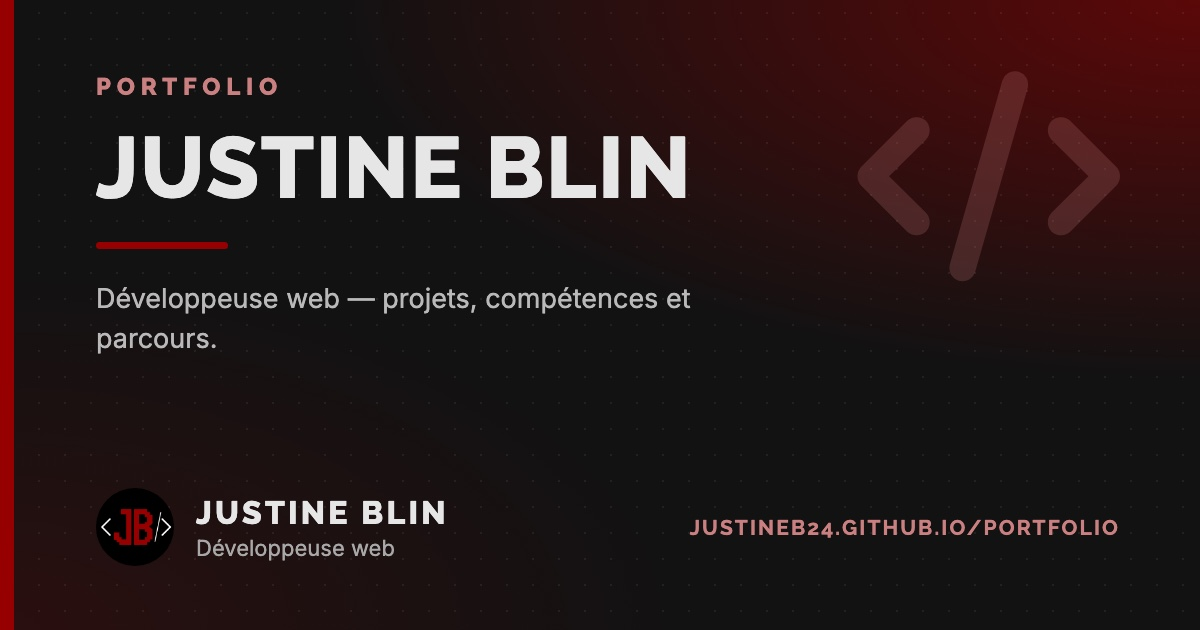
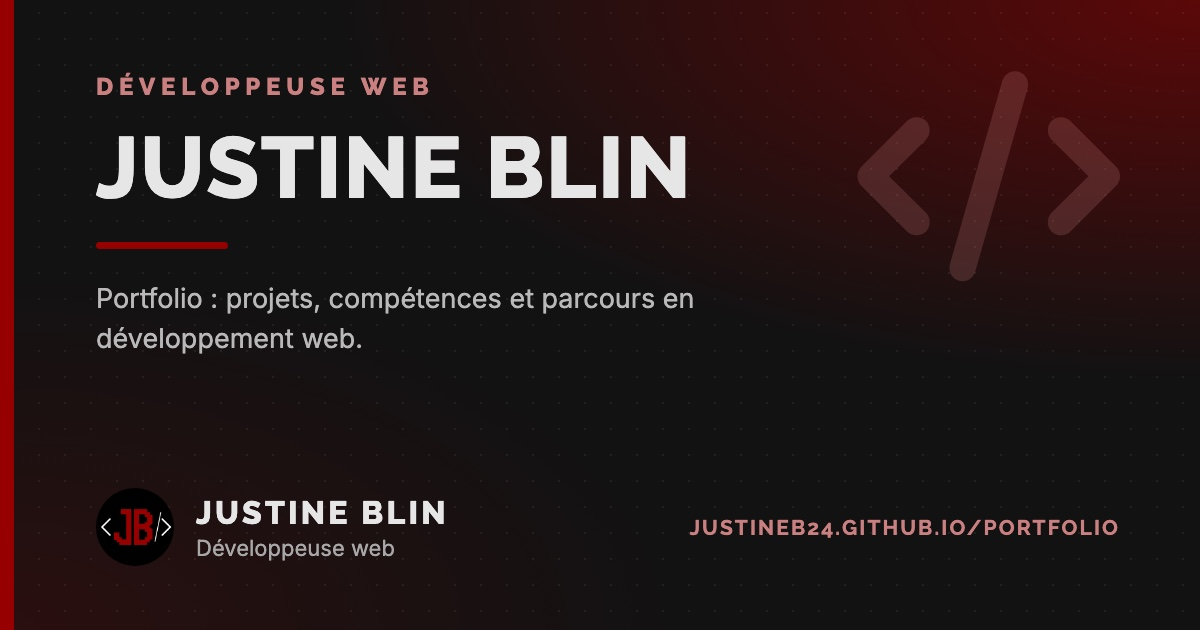
Cartes de partage régénérées
Le générateur accepte ?carte= pour choisir une carte.

Changed region(s): [[0.0925, 0.4524, 0.5858, 0.573], [0.0617, 0.1206, 0.37, 0.1508]]

diff --git a/assets/og/generateur.html b/assets/og/generateur.html
@@ -18,6 +18,40 @@
 <!--    |     --out assets/og/og-nom.jpg                           |    -->
 <!--    ==========================================================    -->
 
+<!--
+    ==========================================================================
+    OÙ SONT LES TEXTES DES CARTES
+    ==========================================================================
+    Dans l'objet `CARTES` en bas de ce fichier : c'est la SEULE source de
+    vérité. Volontairement pas recopiés ici, un commentaire finirait par
+    diverger (c'est déjà arrivé aux images elles-mêmes).
+
+    Ouvrir generateur.html sans paramètre affiche la liste des cartes.
+
+    ==========================================================================
+    RÉGÉNÉRER UNE CARTE
+    ==========================================================================
+      cd <racine du dépôt> && python3 -m http.server 8000 &
+      NOM=formation      # une des clés de l'objet CARTES
+      chrome --headless --disable-gpu --hide-scrollbars \
+             --virtual-time-budget=7000 --window-size=1200,630 \
+             --screenshot=/tmp/carte.png \
+             "http://localhost:8000/assets/og/generateur.html?carte=$NOM"
+      sips -s format jpeg -s formatOptions 88 /tmp/carte.png \
+           --out "assets/og/og-$NOM.jpg"
+
+    Qualité 88 : les dégradés du fond sont coûteux, en dessous ils marbrent.
+
+    Une carte est une image, elle ne suit pas les modifications des pages.
+    Quand un eyebrow ou un titre de page change : corriger `CARTES`, PUIS
+    régénérer l'image.
+
+    Les paramètres eyebrow / titre / accroche / icone restent acceptés, seuls
+    ou en surcharge d'une carte nommée, pour essayer une variante sans
+    toucher au fichier.
+    ==========================================================================
+-->
+
 <!doctype html>
 <html lang="fr">
 <head>
@@ -212,20 +246,128 @@
 </div>
 
 <script>
-    // Les textes viennent de l'URL : ?eyebrow=…&titre=…&accroche=…&icone=fa-rss
-    const p = new URLSearchParams(location.search);
-    const mettre = (id, valeur) => {
-        if (valeur !== null) document.getElementById(id).textContent = valeur;
+    // ======================================================================
+    // SOURCE UNIQUE DE VÉRITÉ des 10 cartes.
+    //
+    // La clé est le suffixe du fichier : "formation" -> og-formation.jpg.
+    // Règle de contenu : `eyebrow` et `titre` reprennent l'eyebrow et le h1
+    // de la page, pour que la carte et la page racontent la même chose.
+    //
+    // À GARDER À JOUR : une carte est une image, elle ne suit pas les
+    // modifications des pages. Quand un eyebrow ou un titre de page change,
+    // corriger ici PUIS régénérer l'image (voir l'en-tête du fichier).
+    // ======================================================================
+    const CARTES = {
+        "accueil": {
+            eyebrow: "Développeuse web",
+            titre: "Justine Blin",
+            accroche: "Portfolio : projets, compétences et parcours en développement web.",
+            icone: "fas fa-code"
+        },
+        "apropos": {
+            eyebrow: "Parcours et expériences",
+            titre: "Profil",
+            accroche: "Formations, expériences professionnelles et CV.",
+            icone: "fas fa-user"
+        },
+        "competences": {
+            eyebrow: "Langages, outils et certifications",
+            titre: "Compétences",
+            accroche: "Ce que j'utilise, et où le voir en projet.",
+            icone: "fas fa-laptop-code"
+        },
+        "projets": {
+            eyebrow: "Du BTS SIO à l'alternance",
+            titre: "Mes projets",
+            accroche: "Projets de Bachelor, de BTS SIO, de stage et personnels.",
+            icone: "fas fa-folder-open"
+        },
+        // eyebrow et titre volontairement inversés par rapport à la page :
+        // « Raspberry Pi » en grand est plus parlant dans un flux.
+        "veille": {
+            eyebrow: "Sujet suivi",
+            titre: "Raspberry Pi",
+            accroche: "Historique, innovations et applications d'un nano-ordinateur.",
+            icone: "fas fa-rss"
+        },
+        "formation": {
+            eyebrow: "Développement, data et IA",
+            titre: "Formation",
+            accroche: "Mastère Expert IT à venir, Bachelor Chef de projet développement et data, BTS SIO option SLAM.",
+            icone: "fas fa-graduation-cap"
+        },
+        "contact": {
+            eyebrow: "Oise (60), Hauts-de-France",
+            titre: "Contact",
+            accroche: "Pour discuter d'un projet ou d'une collaboration.",
+            icone: "fas fa-paper-plane"
+        },
+        "mentions-legales": {
+            eyebrow: "Aucun cookie, aucune donnée collectée",
+            titre: "Mentions légales",
+            accroche: "Éditeur, hébergement et données personnelles.",
+            icone: "fas fa-scale-balanced"
+        },
+        // Carte générique : la page est dynamique (?id=…) et projet-details.js
+        // remplace og:image par la 1re capture du projet quand il en a une.
+        "projet-details": {
+            eyebrow: "Réalisations",
+            titre: "Détail d'un projet",
+            accroche: "Contexte, technologies et étude de cas.",
+            icone: "fas fa-diagram-project"
+        },
+        "404": {
+            eyebrow: "Erreur 404",
+            titre: "Page introuvable",
+            accroche: "Cette page n'existe pas ou a été déplacée.",
+            icone: "fas fa-triangle-exclamation"
+        }
     };
-    mettre('eyebrow', p.get('eyebrow'));
-    mettre('titre', p.get('titre'));
-    mettre('accroche', p.get('accroche'));
+
+    const p = new URLSearchParams(location.search);
+    const nom = p.get('carte');
+
+    // Sans paramètre : on liste les cartes disponibles au lieu d'afficher
+    // une carte vide, pour qu'on n'ait pas à ouvrir le code pour les trouver.
+    if (!nom && !p.get('titre')) {
+        document.body.innerHTML =
+            '<div style="padding:3rem;font:16px/1.7 monospace;color:#e6e6e6">' +
+            '<p style="color:#ca8080;font-weight:700">generateur.html?carte=&lt;nom&gt;</p>' +
+            '<p>Cartes disponibles :</p><ul>' +
+            Object.keys(CARTES).map(function (c) {
+                return '<li><a style="color:#ca8080" href="?carte=' + c + '">' + c +
+                    '</a> &nbsp;&rarr;&nbsp; og-' + c + '.jpg</li>';
+            }).join('') +
+            '</ul><p>Les paramètres eyebrow / titre / accroche / icone restent ' +
+            'acceptés, seuls ou en surcharge d\'une carte.</p></div>';
+        throw new Error('liste affichée');   // stoppe le reste du script
+    }
+
+    if (nom && !CARTES[nom]) {
+        document.title = 'CARTE INCONNUE';
+        document.body.innerHTML =
+            '<p style="padding:3rem;font:16px monospace;color:#ca8080">Carte inconnue : ' +
+            nom.replace(/[<>&]/g, '') + '<br>Attendu : ' + Object.keys(CARTES).join(', ') + '</p>';
+        throw new Error('carte inconnue');
+    }
+
+    // Une carte nommée fournit les valeurs par défaut ; chaque paramètre
+    // d'URL peut encore les surcharger, pratique pour essayer une variante.
+    const base = CARTES[nom] || {};
+    const valeur = (cle) => p.get(cle) !== null ? p.get(cle) : base[cle];
+
+    const mettre = (id, v) => {
+        if (v !== undefined && v !== null) document.getElementById(id).textContent = v;
+    };
+    mettre('eyebrow', valeur('eyebrow'));
+    mettre('titre', valeur('titre'));
+    mettre('accroche', valeur('accroche'));
     mettre('role', p.get('role'));
 
-    const icone = p.get('icone');
+    const icone = valeur('icone');
     if (icone) document.getElementById('icone').className = 'icone ' + icone;
 
-    const titre = p.get('titre') || '';
+    const titre = valeur('titre') || '';
     if (titre.length > 18) document.body.classList.add('titre-long');
 </script>
 </body>
